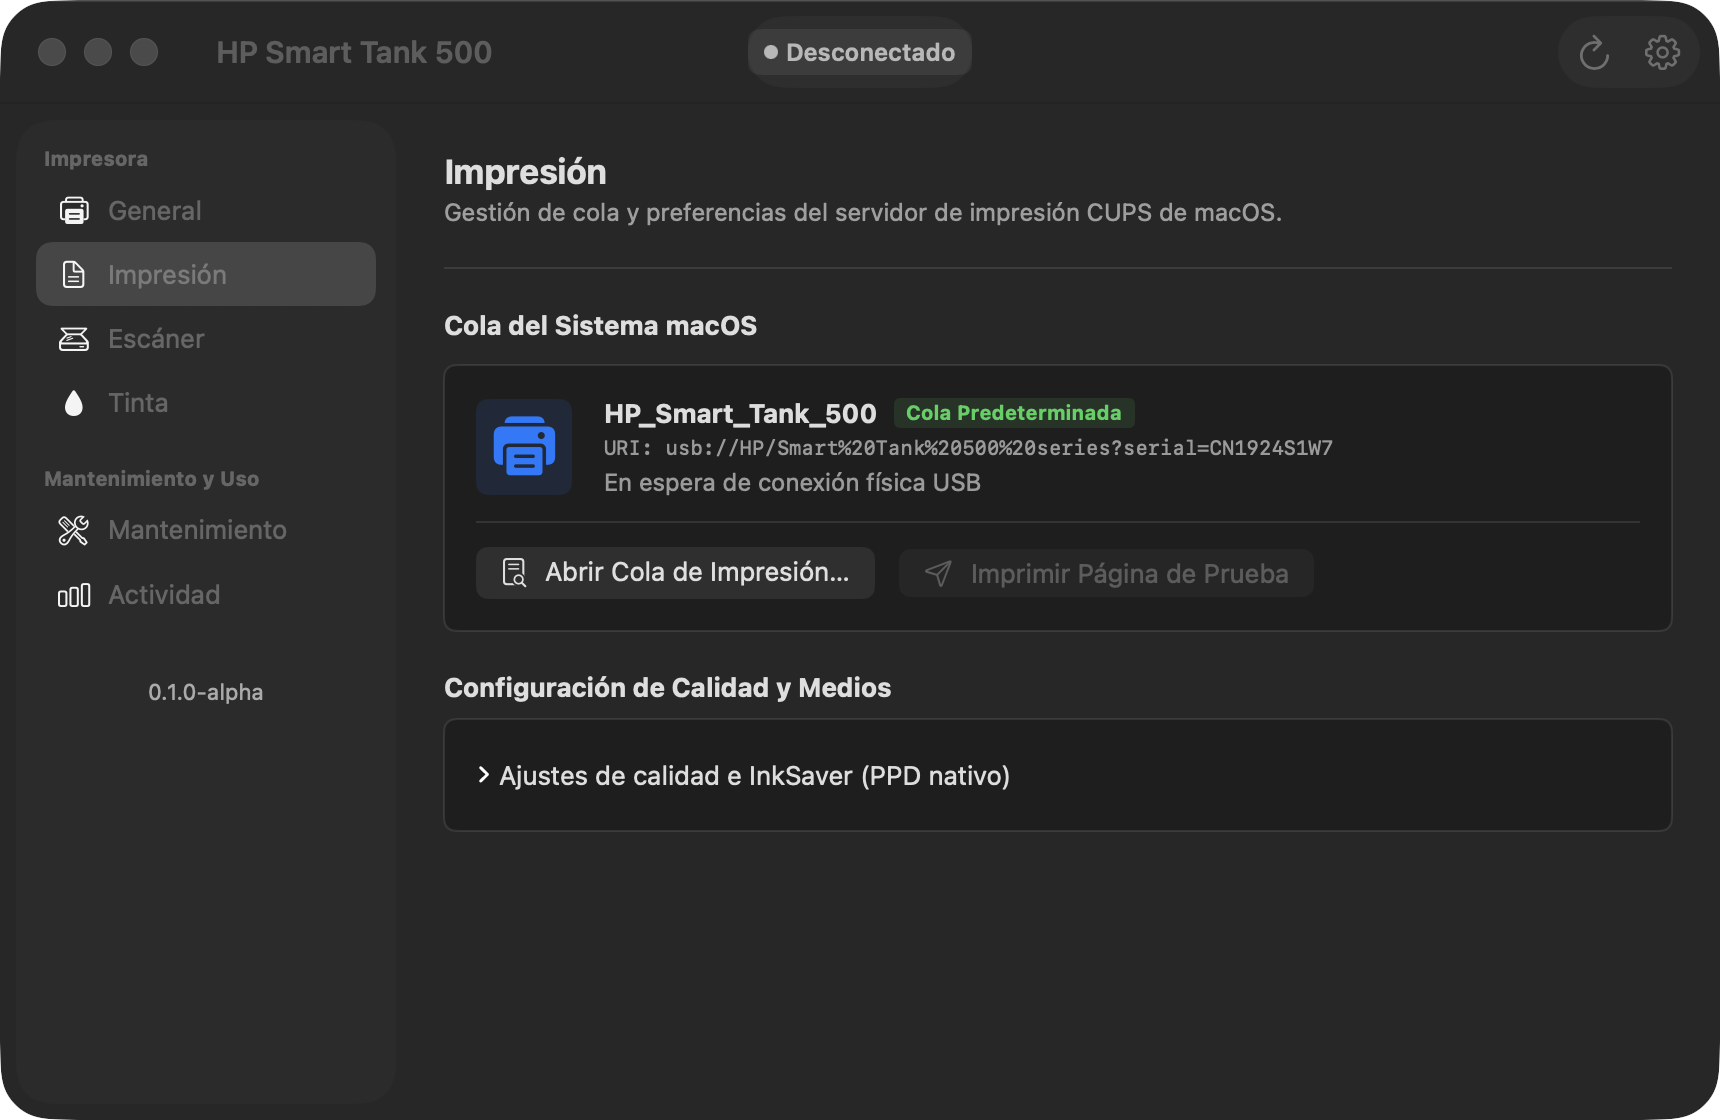
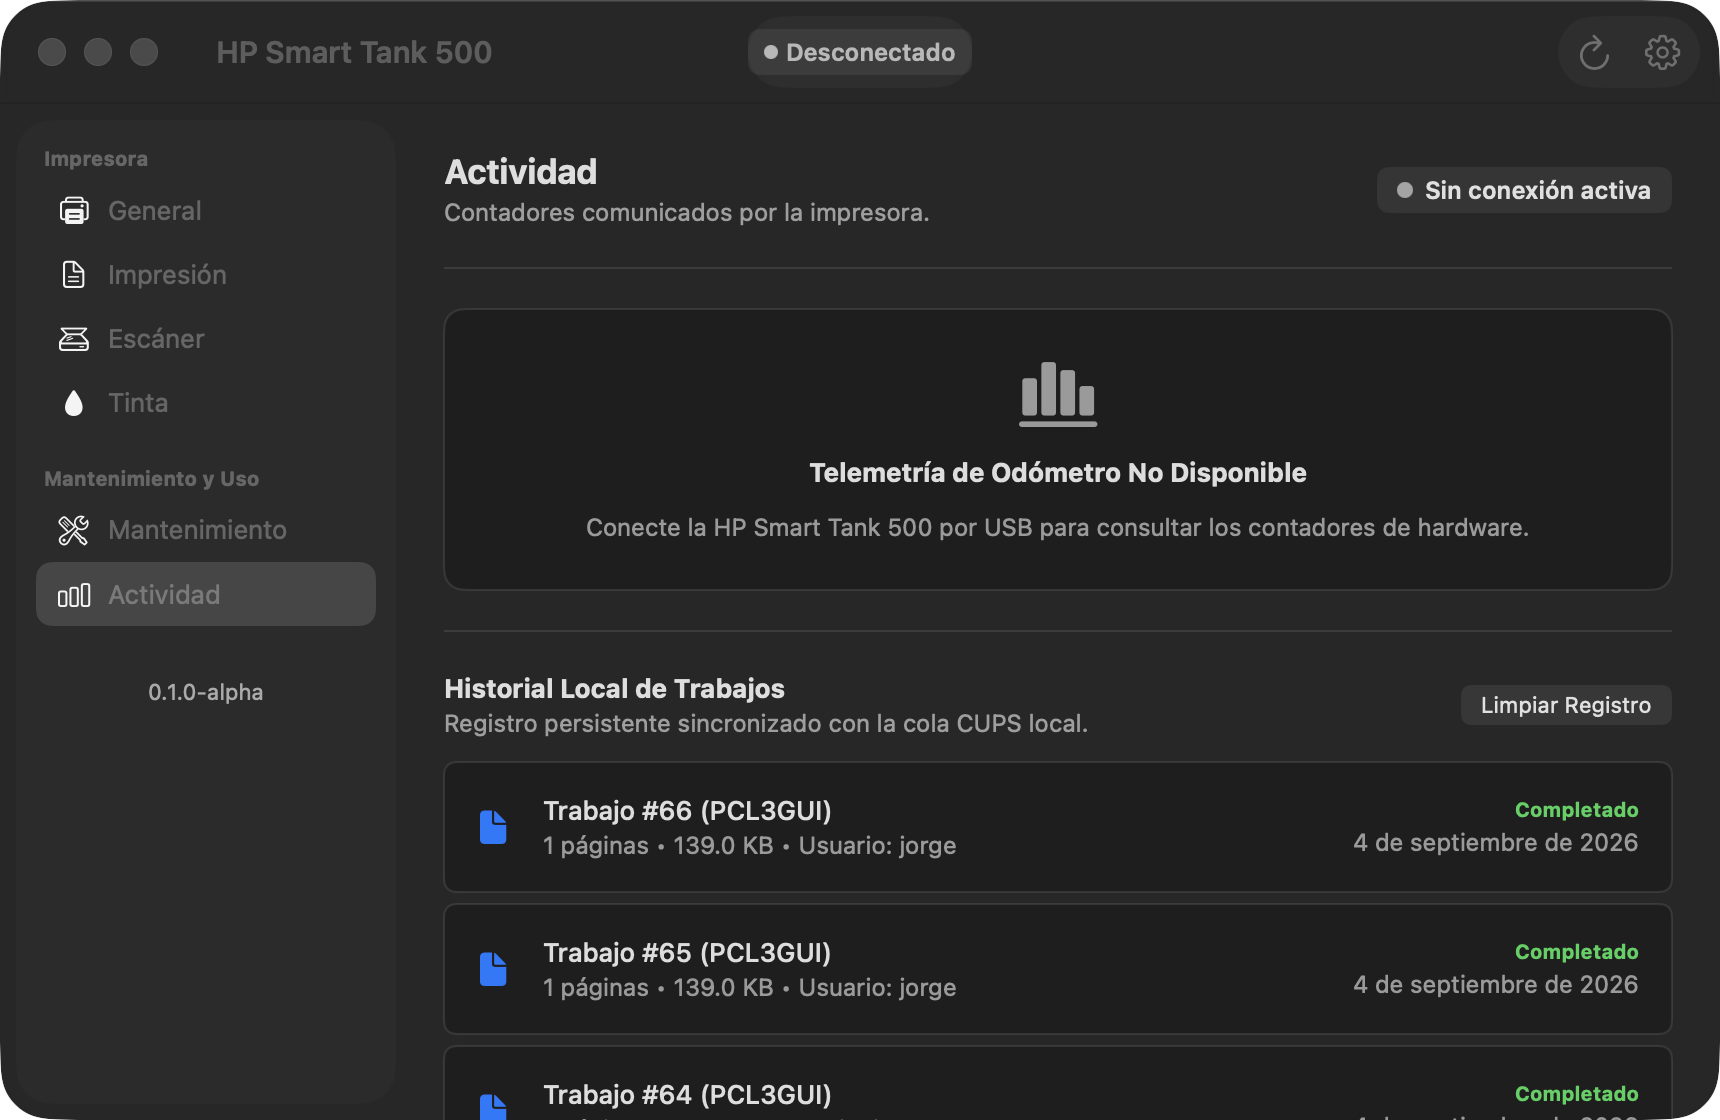
feat(distribution): add preflight check, persistent job store, and .pkg packaging fixes
- Add tools/preflight_usb.sh for 3-second hardware inspection upon USB connection
- Add JobHistoryStore.swift to persist print jobs in ~/Library/Application Support/TankControl
- Connect ActivityView to real local CUPS completed print jobs
- Fix duplicate rpath handling in package_dist.sh and add compatibility symlink in build_app.sh

diff --git a/apps/HPSmartTankUtility/Sources/Services/JobHistoryStore.swift b/apps/HPSmartTankUtility/Sources/Services/JobHistoryStore.swift
@@ -1,0 +1,123 @@
+import Foundation
+
+/// Almacén persistente y sincronizador del historial de trabajos de impresión para TankControl.
+/// Lee los registros completados del subsistema CUPS de macOS y los persiste en Application Support.
+public final class JobHistoryStore: ObservableObject {
+    public static let shared = JobHistoryStore()
+
+    @Published public var jobs: [PrintJob] = []
+
+    private let storageURL: URL
+
+    public init() {
+        let appSupport = FileManager.default.urls(for: .applicationSupportDirectory, in: .userDomainMask).first
+            ?? URL(fileURLWithPath: NSHomeDirectory()).appendingPathComponent("Library/Application Support")
+        let tankDir = appSupport.appendingPathComponent("TankControl", isDirectory: true)
+        try? FileManager.default.createDirectory(at: tankDir, withIntermediateDirectories: true)
+        self.storageURL = tankDir.appendingPathComponent("jobs_history.json")
+
+        loadJobs()
+        syncWithCups()
+    }
+
+    public func loadJobs() {
+        guard let data = try? Data(contentsOf: storageURL),
+              let loaded = try? JSONDecoder().decode([PrintJob].self, from: data) else {
+            return
+        }
+        self.jobs = loaded
+    }
+
+    public func saveJobs() {
+        guard let data = try? JSONEncoder().encode(jobs) else { return }
+        try? data.write(to: storageURL, options: .atomic)
+    }
+
+    public func clearJobs() {
+        jobs.removeAll()
+        try? FileManager.default.removeItem(at: storageURL)
+    }
+
+    public func addJob(_ job: PrintJob) {
+        if !jobs.contains(where: { $0.id == job.id && $0.title == job.title }) {
+            jobs.insert(job, at: 0)
+            saveJobs()
+        }
+    }
+
+    public func syncWithCups() {
+        DispatchQueue.global(qos: .utility).async { [weak self] in
+            guard let self = self else { return }
+            let parsed = self.fetchCupsCompletedJobs()
+            DispatchQueue.main.async {
+                for job in parsed {
+                    if !self.jobs.contains(where: { $0.id == job.id }) {
+                        self.jobs.append(job)
+                    }
+                }
+                self.jobs.sort { $0.date > $1.date }
+                self.saveJobs()
+            }
+        }
+    }
+
+    private func fetchCupsCompletedJobs() -> [PrintJob] {
+        let process = Process()
+        process.executableURL = URL(fileURLWithPath: "/usr/bin/lpstat")
+        process.arguments = ["-W", "completed"]
+
+        let pipe = Pipe()
+        process.standardOutput = pipe
+        process.standardError = Pipe()
+
+        do {
+            try process.run()
+            process.waitUntilExit()
+        } catch {
+            return []
+        }
+
+        let data = pipe.fileHandleForReading.readDataToEndOfFile()
+        guard let output = String(data: data, encoding: .utf8) else { return [] }
+
+        var results: [PrintJob] = []
+        let dateFormatter = DateFormatter()
+        dateFormatter.locale = Locale(identifier: "en_US_POSIX")
+        dateFormatter.dateFormat = "EEE MMM d HH:mm:ss yyyy"
+
+        for line in output.split(separator: "\n") {
+            let parts = line.split(whereSeparator: { $0.isWhitespace })
+            guard parts.count >= 8 else { continue }
+
+            let fullJobId = String(parts[0])
+            guard fullJobId.contains("Smart_Tank") || fullJobId.contains("HP") else { continue }
+
+            let jobIdNum: Int
+            if let dashIdx = fullJobId.lastIndex(of: "-"),
+               let num = Int(fullJobId[fullJobId.index(after: dashIdx)...]) {
+                jobIdNum = num
+            } else {
+                continue
+            }
+
+            let user = String(parts[1])
+            let sizeBytes = Int(parts[2]) ?? 0
+
+            let dateStr = "\(parts[3]) \(parts[4]) \(parts[5]) \(parts[6]) \(parts[7])"
+            let date = dateFormatter.date(from: dateStr) ?? Date()
+
+            let job = PrintJob(
+                id: jobIdNum,
+                title: "Trabajo #\(jobIdNum) (PCL3GUI)",
+                user: user,
+                pages: max(1, sizeBytes / 120000),
+                sizeBytes: sizeBytes,
+                state: .completed,
+                date: date
+            )
+            results.append(job)
+        }
+
+        return results
+    }
+}

diff --git a/apps/HPSmartTankUtility/Sources/Views/ActivityView.swift b/apps/HPSmartTankUtility/Sources/Views/ActivityView.swift
@@ -4,7 +4,7 @@ import SwiftUI
 public struct ActivityView: View {
     @ObservedObject var printer: PrinterManager
 
-    @State private var sampleJobs: [PrintJob] = []
+    @ObservedObject private var historyStore = JobHistoryStore.shared
 
     private var numberFormatter: NumberFormatter {
         let f = NumberFormatter()
@@ -186,25 +186,25 @@ public struct ActivityView: View {
                         VStack(alignment: .leading, spacing: 2) {
                             Text("Historial Local de Trabajos")
                                 .font(DesignTokens.Fonts.sectionHeader)
-                            Text("El historial persistente todavía no está integrado.")
+                            Text("Registro persistente sincronizado con la cola CUPS local.")
                                 .font(DesignTokens.Fonts.caption)
                                 .foregroundColor(.secondary)
                         }
                         Spacer()
 
                         Button("Limpiar Registro") {
-                            sampleJobs.removeAll()
+                            historyStore.clearJobs()
                         }
                         .buttonStyle(.bordered)
                         .controlSize(.small)
-                        .disabled(sampleJobs.isEmpty)
+                        .disabled(historyStore.jobs.isEmpty)
                     }
 
-                    if sampleJobs.isEmpty {
+                    if historyStore.jobs.isEmpty {
                         EmptyStateView(
                             icon: "clock.arrow.circlepath",
                             title: "Sin Trabajos Registrados",
-                            message: "Consulta los trabajos desde la cola de impresión de macOS."
+                            message: "Los trabajos enviados a la impresora se registrarán automáticamente."
                         )
                         .frame(height: 140)
                         .frame(maxWidth: .infinity)
@@ -216,7 +216,7 @@ public struct ActivityView: View {
                         )
                     } else {
                         VStack(spacing: 6) {
-                            ForEach(sampleJobs) { job in
+                            ForEach(historyStore.jobs) { job in
                                 HStack(spacing: DesignTokens.Spacing.md) {
                                     Image(systemName: "doc.fill")
                                         .font(.system(size: 16))
